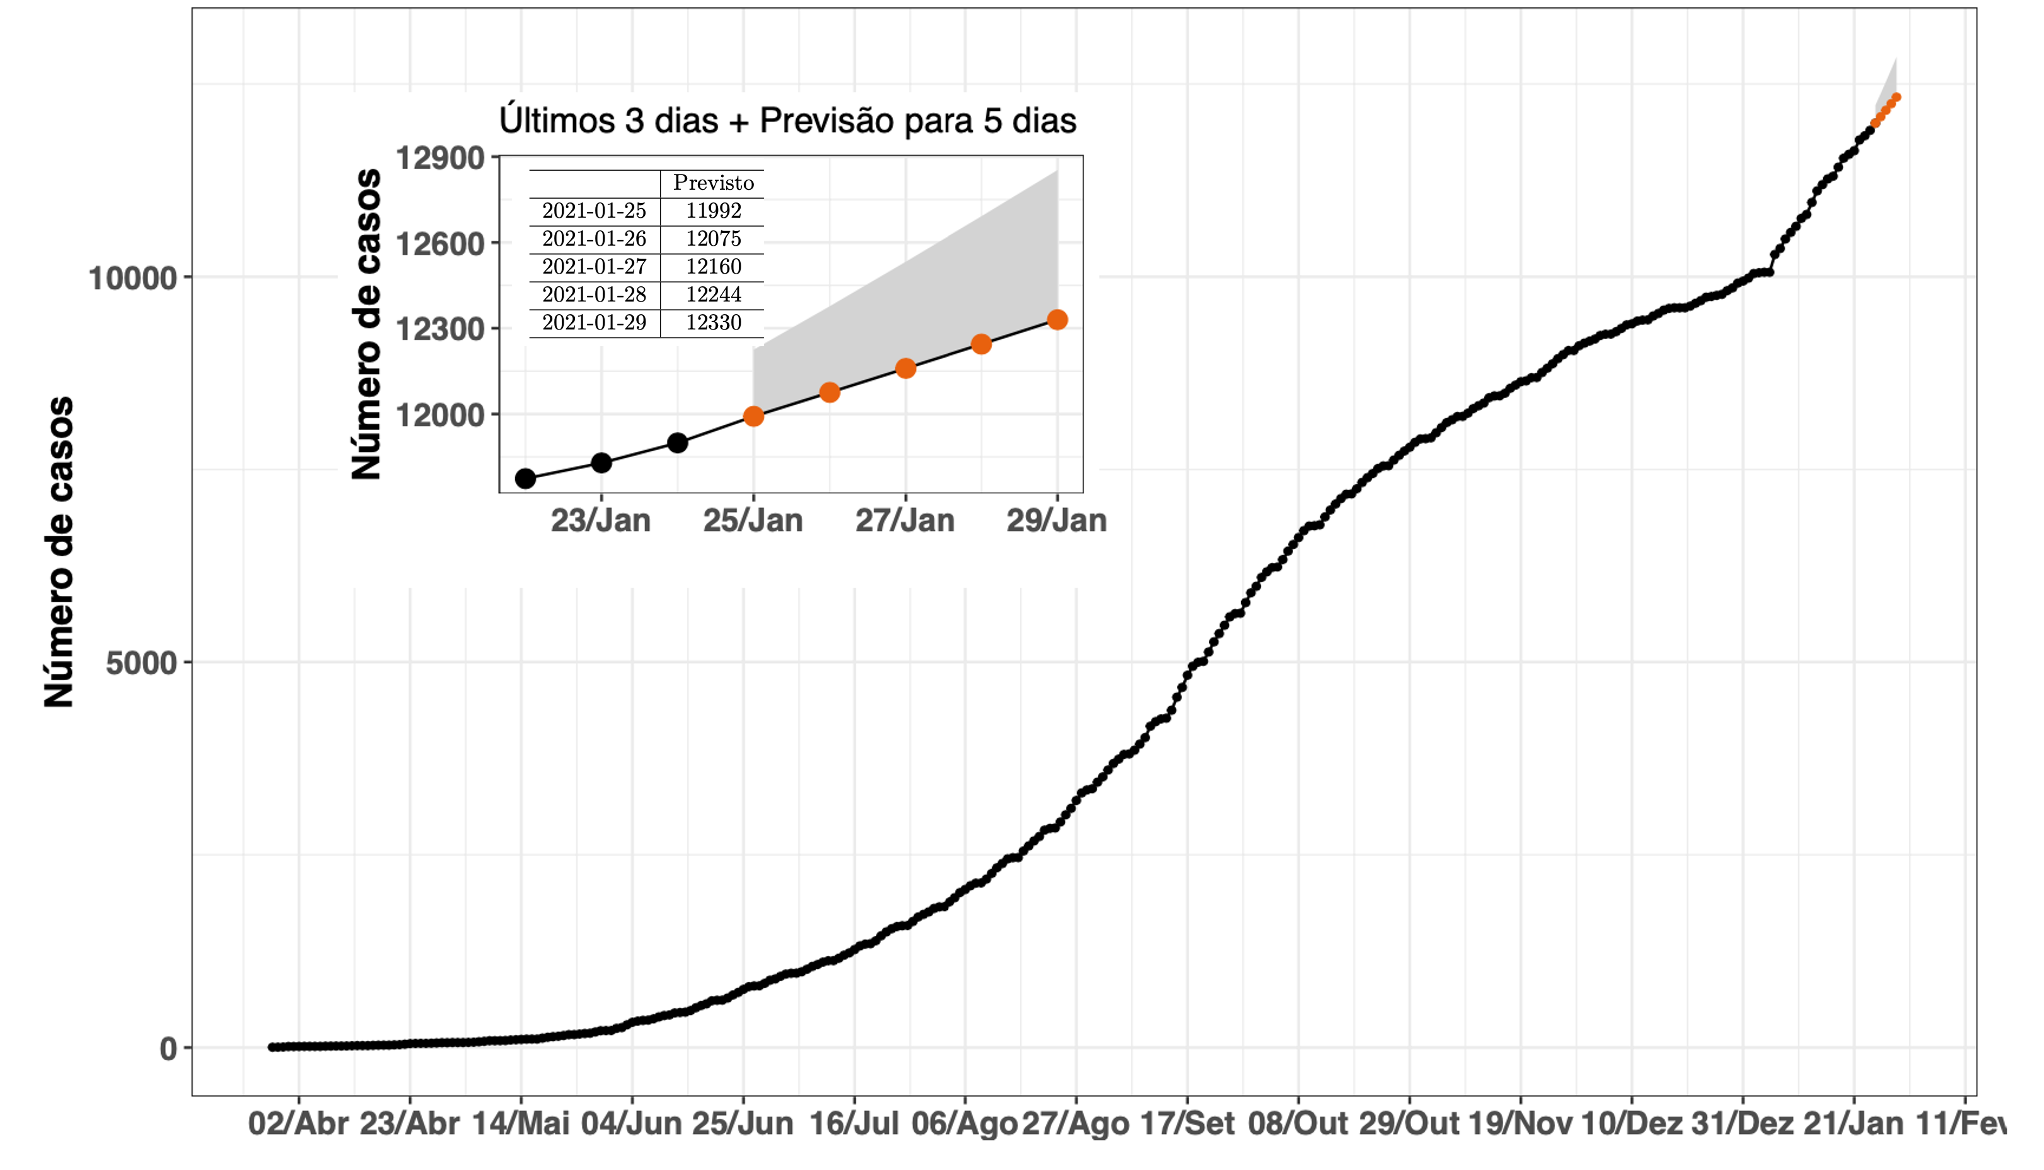
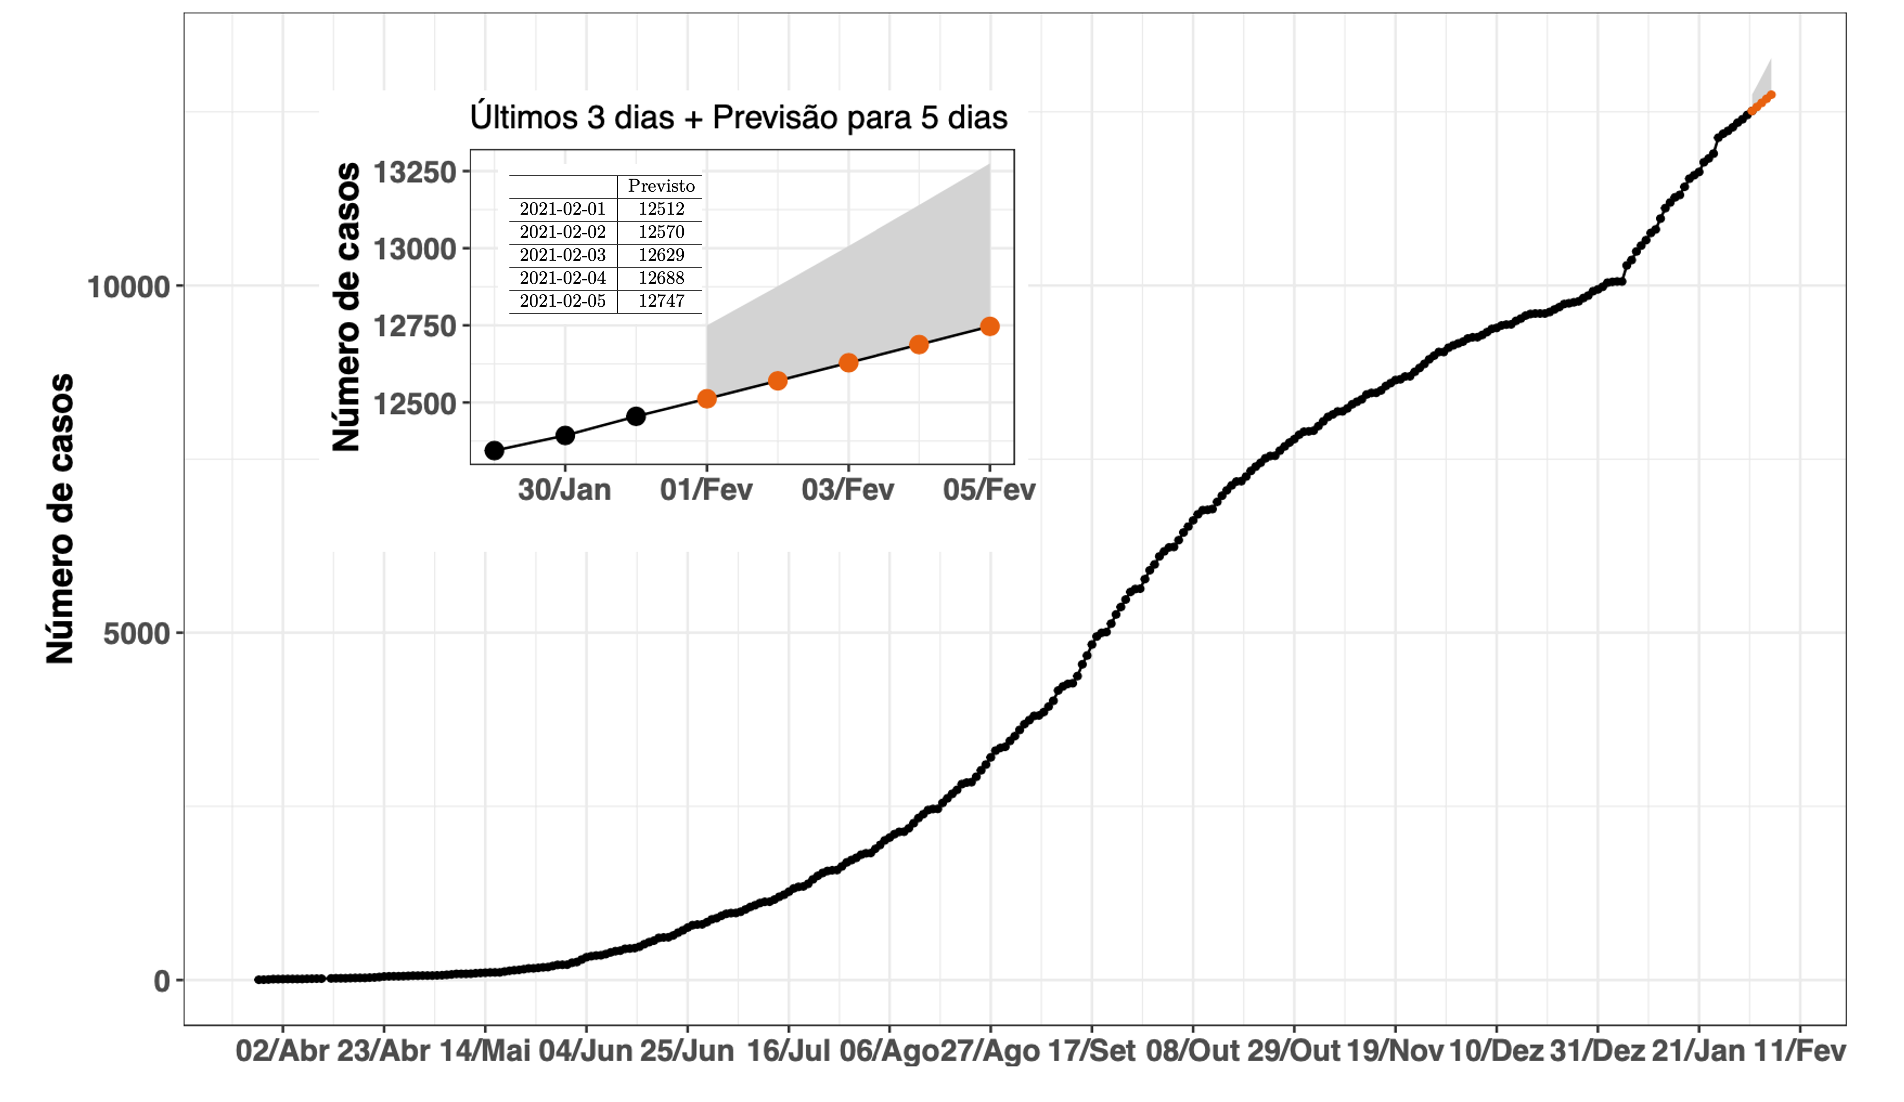
atualizacao

diff --git a/index.html b/index.html
@@ -135,7 +135,7 @@
               <!-- CARD.TITLE.TEXT -->
               <h2 class="display">Casos de Uberaba</h2>
             <!--/a-->
-            <p class="card-text">Dados e projeções para o município de Uberaba, informações até o dia 18 de janeiro de 2021. Informações coletadas com a própria Secretaria Municipal de Saúde de Uberaba e pelo monitoramento diário</p>
+            <p class="card-text">Dados e projeções para o município de Uberaba, informações até o dia 31 de janeiro 2021. Informações coletadas com a própria Secretaria Municipal de Saúde de Uberaba e pelo monitoramento diário</p>
             <!-- CARD.TITLE.DESCRIPTION -->
           </div>
         </div>
@@ -147,8 +147,8 @@
 
         <p class="text-justify mt-3">
             <ul>
-            <li>No dia de hoje (24/01/2021), acumulamos 11899 casos notificados.</li>
-            <li>Projeção para dia 29 de janeiro é de 12330 podendo chegar até 12853 casos notificados, como indicado pela faixa cinza.</li>
+            <li>No dia de hoje (31/01/2021), acumulamos 12455 casos notificados.</li>
+            <li>Projeção para dia 05 de fevereiro é de 12747 podendo chegar até 13275 casos notificados, como indicado pela faixa cinza.</li>
             <li>Pontos pretos: número de casos confirmados a cada dia.</li>
             <li>Pontos laranjas: a previsão para os próximos 5 dias.</li>
             </ul>
@@ -163,17 +163,14 @@
 
         <!--/a-->
         <!-- CARD.TEXT -->
-        <p class="text-justify mt-3">
+        <!--<p class="text-justify mt-3">
         A Figura 1 mostra o número acumulado de pessoas infectadas em função do tempo em Uberaba. Nesse gráfico, os pontos laranjas apresentam a previsão para os próximos 5 dias dada pelo modelo exponencial ajustado aos dados. Considera-se a projeção de cinco dias apenas, pois quando o crescimento é exponencial, as incertezas também crescem exponencialmente. É preciso observar que mesmo pequenas mudanças na taxa que aconteçam hoje ou amanhã, vão causar enormes variações no futuro. Por isso, é inadequado fazer previsões para mais de cinco dias com esse método.
-        </p>
+      </p> -->
 
 
         <div class="media-body">
             <h3 class="card-title">Total de Casos Confirmados</h3>
         </div>
-<p class="text-justify mt-3">
-        Há uma clara e forte tendência de crescimento de casos, a Figura 2 apresenta o número total de casos confirmados pela COVID-19 em Uberaba com a média móvel.
-</p>
 </p>
 
         <a target="_blank">
@@ -181,9 +178,6 @@
         </a>
 
         <p class="text-center mt-3"> <b>Figura 2:</b> Total acumulado de casos de Covid-19 em Uberaba e média móvel considerando intervalos de sete dias. </p>
-
-  <p class="text-justify mt-3">
-    A Figura 3 apresenta o total de casos confirmados por COVID-19 em Uberaba notificados por mês. O mês de setembro de 2020 foi o mês do pico da pandemia na cidade de Uberaba seguido de queda no número de casos nos meses subsequentes. O mês de janeiro de 2021 apresenta uma tendência de alta.
 
     <a target="_blank">
       <img src="./web/municipios/MG/Uberaba/casostotalmensal.png" class="img-fluid" style="max-height:600px;" alt="Gŕafico mostrando os indicadores da cidade de Uberaba.">
@@ -228,9 +222,7 @@
     <h3 class="card-title">Casos Diários Confirmados</h3>
 </div>
 
-        <p class="text-justify mt-3">
-        A Figura 4 apresenta os dados de casos confirmados diários. Até o momento, o pico da pandemia em Uberaba foi no dia 15 de setembro de 2020 com 169 casos confirmados. Uberaba registrou no mês de janeiro de 2021 novos recordes de casos notificados diários indicando o surgirmento da segunda onda de casos da COVID-19.
-        </p>
+
 
         <a target="_blank">
           <img src="./web/municipios/MG/Uberaba/casostotaldiarios.png" class="img-fluid" style="max-height:600px;" alt="Gŕafico mostrando os indicadores da cidade de Uberaba.">
